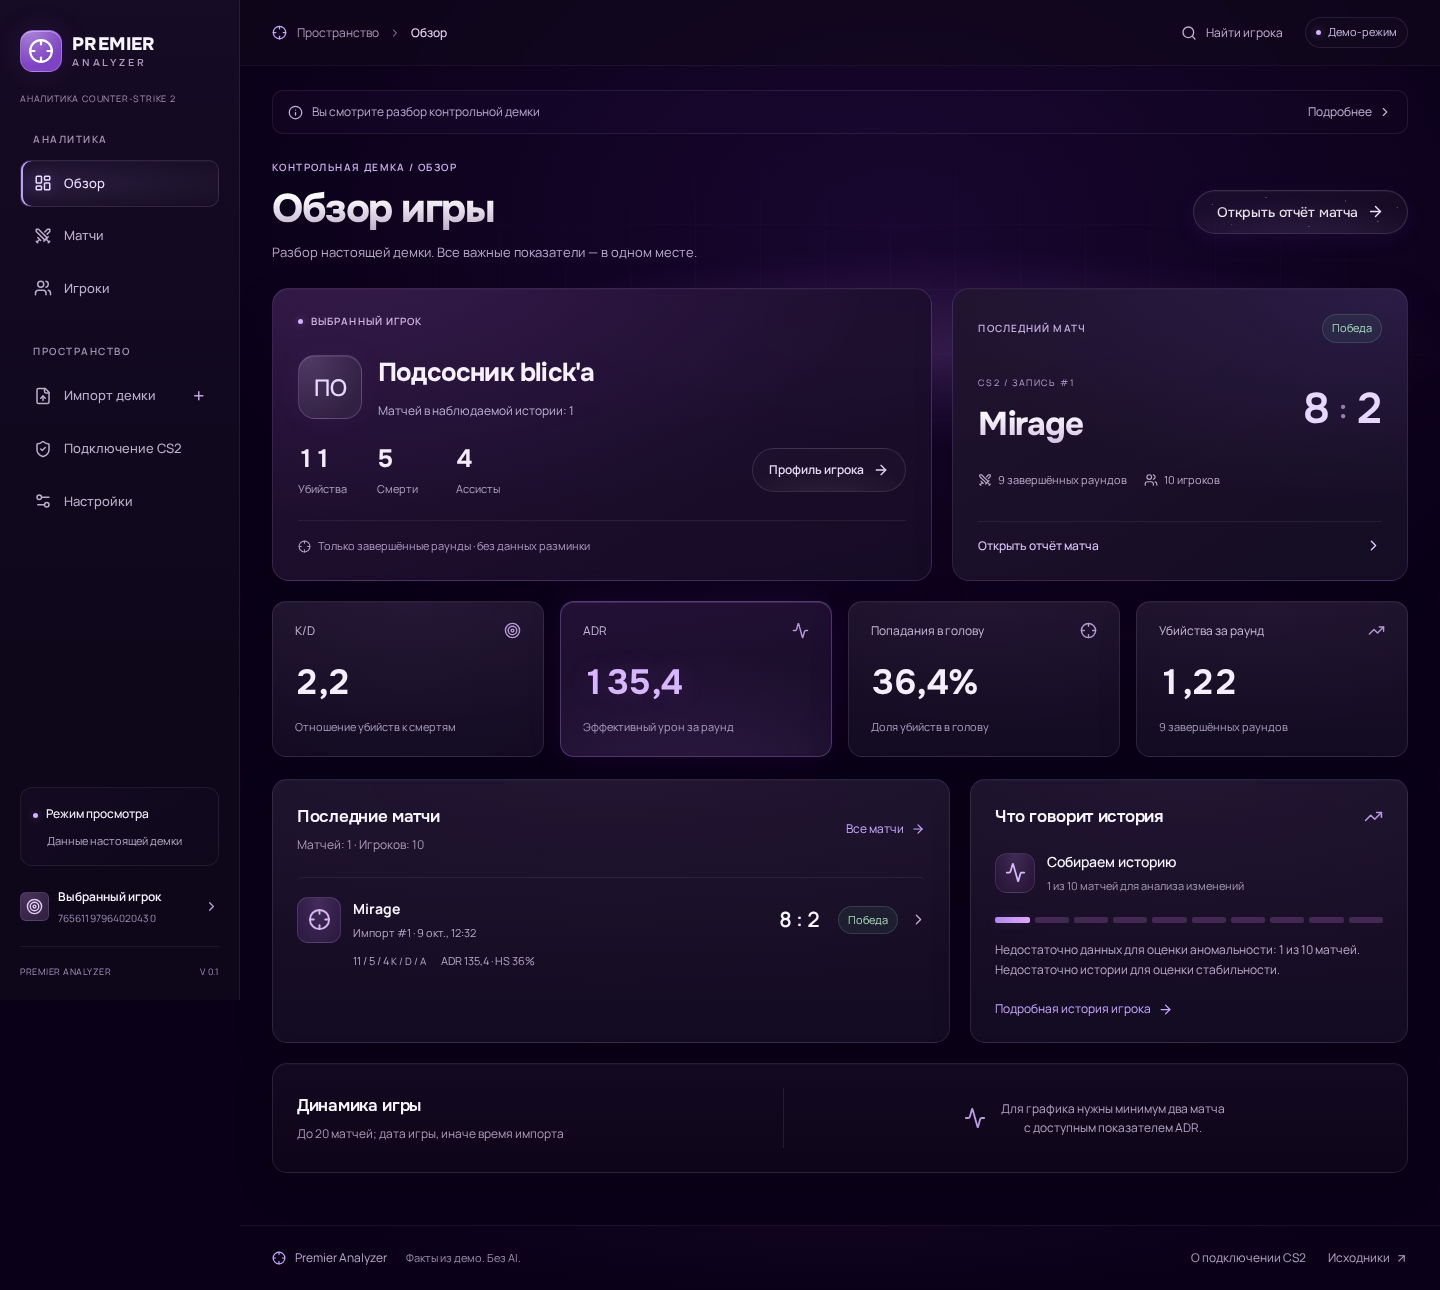
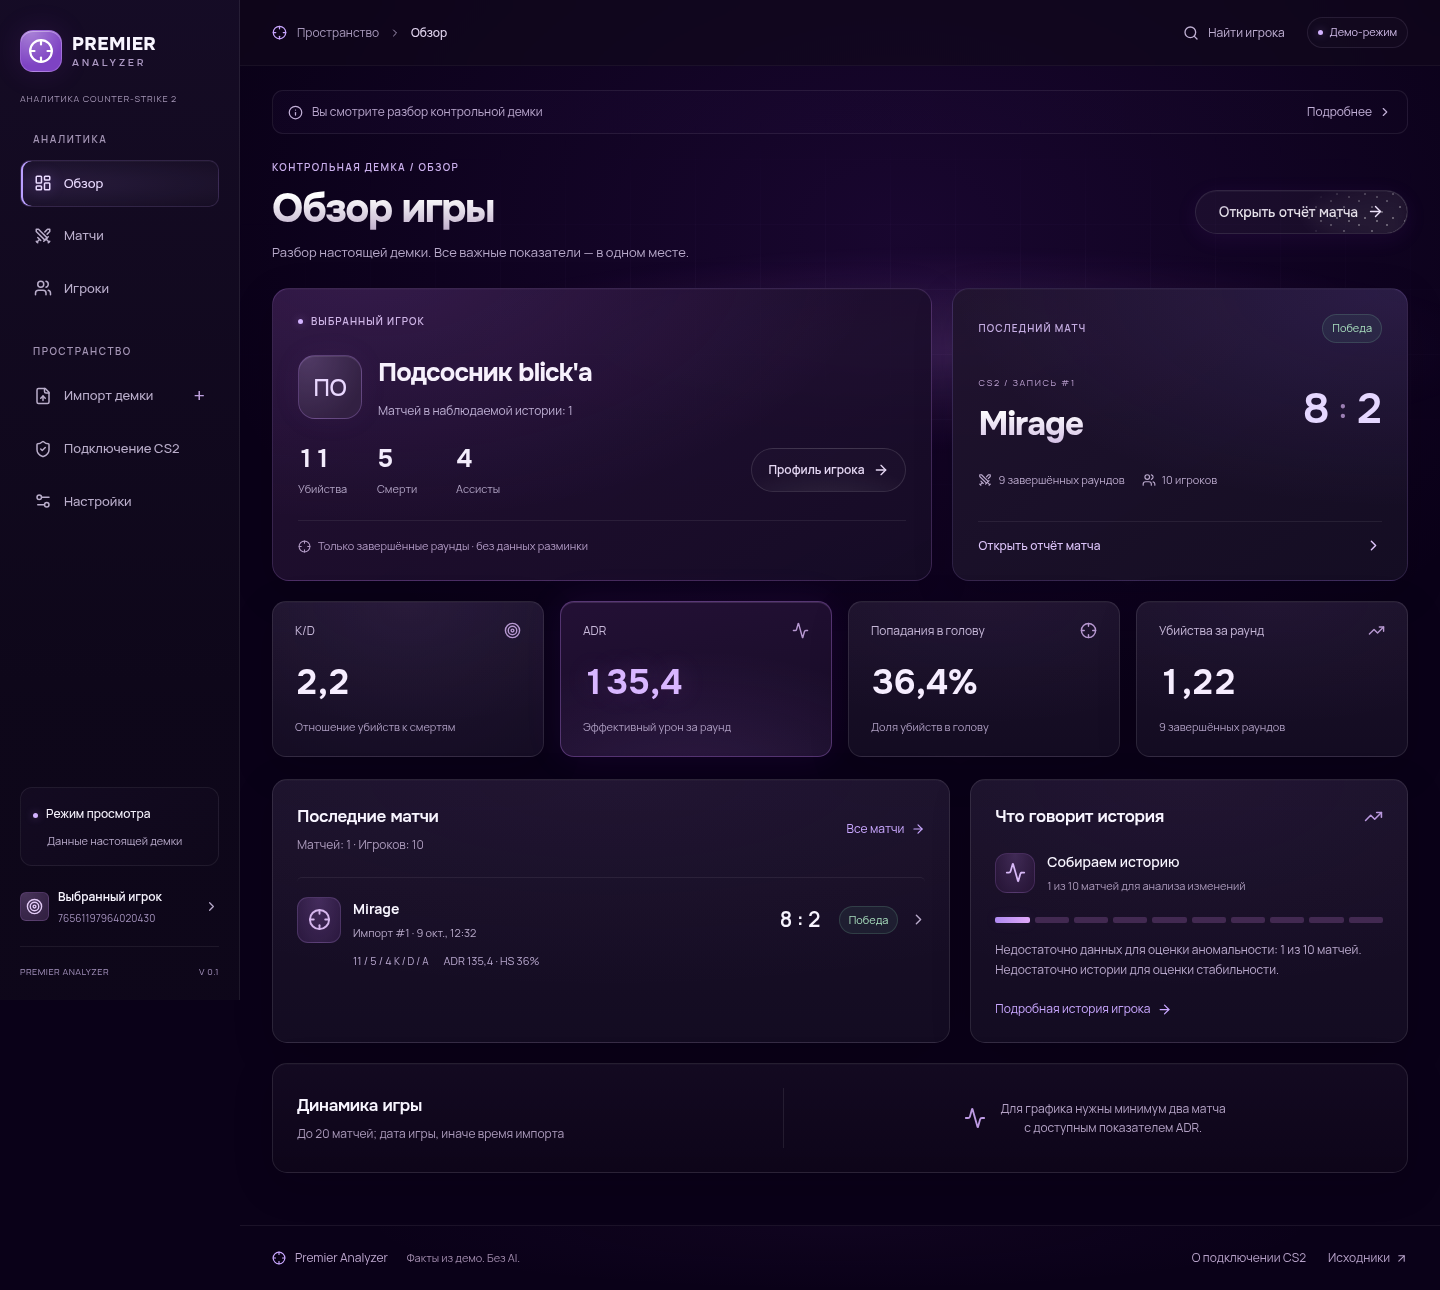
Match Wope's synchronized two-second light motion and add animated preview

diff --git a/frontend/src/shared/ui/glow-action.css b/frontend/src/shared/ui/glow-action.css
@@ -1,0 +1,168 @@
+/* The two-second rotating light follows the public Wope button reference. */
+.button.primary.glow-action {
+  --glow-period: 2s;
+  position: relative;
+  isolation: isolate;
+  overflow: hidden;
+  min-height: 44px;
+  padding: 9px 23px;
+  border: 1px solid #ffffff1a;
+  border-radius: 999px;
+  background: radial-gradient(107.5% 107.5% at 50% 215%, #ffffff3d, #ffffff00), #ffffff0a;
+  box-shadow:
+    inset 0 1px #ffffff0a,
+    0 5px 22px #934bdd16;
+  color: #fff;
+  font-family: 'Onest', 'Manrope', sans-serif;
+  font-size: 14px;
+  font-weight: 500;
+  letter-spacing: -0.15px;
+  line-height: 24px;
+}
+.glow-action-decor,
+.glow-action-stars,
+.glow-action-ring,
+.button.primary.glow-action::after {
+  position: absolute;
+  inset: -1px;
+  border-radius: inherit;
+  pointer-events: none;
+}
+.glow-action-decor {
+  overflow: hidden;
+}
+.glow-action-stars,
+.glow-action-ring {
+  inset: 0;
+}
+.glow-action-aura,
+.glow-action-light {
+  position: absolute;
+  left: 50%;
+  top: 50%;
+  width: 100%;
+  aspect-ratio: 1;
+  background: conic-gradient(#ffffff80 0deg, #ffffff00 60deg, #ffffff00 310deg, #ffffff80 360deg);
+  transform: translate(-50%, -50%);
+  animation: glow-action-turn var(--glow-period) linear infinite;
+}
+.glow-action-aura {
+  filter: blur(8px);
+  opacity: 0.12;
+}
+.glow-action-stars {
+  /* A repeating point mask stays still while light moves underneath it. */
+  -webkit-mask-image:
+    radial-gradient(circle at 2px 4px, #fff 0 0.55px, #ffffff00 1px),
+    radial-gradient(circle at 14px 7px, #fff 0 0.55px, #ffffff00 1px),
+    radial-gradient(circle at 24px 11px, #fff 0 0.55px, #ffffff00 1px),
+    radial-gradient(circle at 9px 17px, #fff 0 0.55px, #ffffff00 1px),
+    radial-gradient(circle at 19px 22px, #fff 0 0.55px, #ffffff00 1px);
+  mask-image:
+    radial-gradient(circle at 2px 4px, #fff 0 0.55px, #ffffff00 1px),
+    radial-gradient(circle at 14px 7px, #fff 0 0.55px, #ffffff00 1px),
+    radial-gradient(circle at 24px 11px, #fff 0 0.55px, #ffffff00 1px),
+    radial-gradient(circle at 9px 17px, #fff 0 0.55px, #ffffff00 1px),
+    radial-gradient(circle at 19px 22px, #fff 0 0.55px, #ffffff00 1px);
+  -webkit-mask-size: 28px 24px;
+  mask-size: 28px 24px;
+  -webkit-mask-repeat: repeat;
+  mask-repeat: repeat;
+}
+.glow-action-ring {
+  padding: 1px;
+  -webkit-mask:
+    linear-gradient(#fff 0 0) content-box,
+    linear-gradient(#fff 0 0);
+  -webkit-mask-composite: xor;
+  mask:
+    linear-gradient(#fff 0 0) content-box,
+    linear-gradient(#fff 0 0);
+  mask-composite: exclude;
+}
+.button.primary.glow-action::after {
+  content: '';
+  background: radial-gradient(85% 120% at 50% 120%, #ffffff3d, #ffffff00);
+  opacity: 0;
+  transition: opacity 1s;
+}
+.glow-action-label {
+  position: relative;
+  z-index: 1;
+  display: inline-flex;
+  align-items: center;
+  justify-content: center;
+  gap: inherit;
+  background: linear-gradient(180deg, #e8dbf3bf, #fff 85%);
+  background-clip: text;
+  -webkit-background-clip: text;
+  color: transparent;
+  -webkit-text-fill-color: transparent;
+}
+.glow-action-label > svg {
+  color: #eee2fb;
+}
+.button.primary.glow-action:not(:disabled):hover,
+.button.primary.glow-action:focus-visible {
+  background-color: #ffffff10;
+  border-color: #e0c2ff52;
+  filter: none;
+  box-shadow:
+    inset 0 1px #ffffff14,
+    0 5px 28px #b578e72b;
+}
+.button.primary.glow-action:not(:disabled):hover::after,
+.button.primary.glow-action:focus-visible::after {
+  opacity: 0.7;
+}
+.button.primary.glow-action:disabled {
+  background-color: #ffffff0a;
+  border-color: #ffffff1a;
+  box-shadow: none;
+  filter: none;
+}
+.glow-action:disabled .glow-action-light,
+.glow-action:disabled .glow-action-aura {
+  animation-play-state: paused;
+}
+.glow-action:disabled .glow-action-decor {
+  opacity: 0.2;
+}
+@keyframes glow-action-turn {
+  from {
+    transform: translate(-50%, -50%) rotate(0deg);
+  }
+  to {
+    transform: translate(-50%, -50%) rotate(360deg);
+  }
+}
+@media (prefers-reduced-motion: reduce) {
+  .glow-action-light,
+  .glow-action-aura {
+    animation: none;
+    transform: translate(-50%, -50%) rotate(-35deg);
+  }
+  .button.primary.glow-action::after {
+    transition: none;
+  }
+}
+@media (forced-colors: active) {
+  .glow-action-decor,
+  .button.primary.glow-action::after {
+    display: none;
+  }
+  .button.primary.glow-action {
+    color: ButtonText;
+    background: ButtonFace;
+    border-color: ButtonText;
+    box-shadow: none;
+  }
+  .glow-action-label {
+    background: none;
+    color: ButtonText;
+    -webkit-text-fill-color: ButtonText;
+  }
+  .glow-action-label > svg {
+    color: ButtonText;
+  }
+}

diff --git a/frontend/src/app/styles/dashboard.css b/frontend/src/app/styles/dashboard.css
@@ -1292,131 +1292,6 @@ nav a:hover {
   background-color: #a977d216;
   filter: none;
 }
-@property --cta-angle {
-  syntax: '<angle>';
-  inherits: false;
-  initial-value: 35deg;
-}
-.button.glow-action {
-  position: relative;
-  isolation: isolate;
-  overflow: hidden;
-  min-height: 44px;
-  padding: 9px 23px;
-  border-color: #ffffff24;
-  background: radial-gradient(110% 110% at 50% 210%, #ffffff38, #ffffff00), #ffffff09;
-  box-shadow:
-    inset 0 1px #ffffff0a,
-    0 5px 22px #934bdd16;
-  font-family: 'Onest', 'Manrope', sans-serif;
-  font-size: 14px;
-  font-weight: 500;
-  letter-spacing: -0.15px;
-  line-height: 24px;
-}
-.button.glow-action::before,
-.button.glow-action::after {
-  content: '';
-  position: absolute;
-  inset: -1px;
-  border-radius: inherit;
-  pointer-events: none;
-}
-.button.glow-action::before {
-  padding: 1px;
-  background: conic-gradient(
-    from var(--cta-angle),
-    #ffffff00 0deg,
-    #d8b9ff35 38deg,
-    #f5ebffc9 75deg,
-    #ffffff00 125deg,
-    #ffffff00 235deg,
-    #d5a8ff70 280deg,
-    #ffffff00 330deg
-  );
-  -webkit-mask:
-    linear-gradient(#fff 0 0) content-box,
-    linear-gradient(#fff 0 0);
-  -webkit-mask-composite: xor;
-  mask:
-    linear-gradient(#fff 0 0) content-box,
-    linear-gradient(#fff 0 0);
-  mask-composite: exclude;
-  animation: cta-orbit 4s linear infinite;
-  opacity: 0.85;
-}
-.button.glow-action::after {
-  z-index: -1;
-  background:
-    radial-gradient(circle at 9% 33%, #efdcff90 0 0.55px, transparent 0.95px),
-    radial-gradient(circle at 18% 78%, #ffffff60 0 0.45px, transparent 0.85px),
-    radial-gradient(circle at 34% 17%, #ffffff70 0 0.55px, transparent 0.95px),
-    radial-gradient(circle at 54% 83%, #e2c7ff80 0 0.55px, transparent 0.95px),
-    radial-gradient(circle at 71% 25%, #ffffff70 0 0.45px, transparent 0.85px),
-    radial-gradient(circle at 86% 71%, #f4e5ff80 0 0.55px, transparent 0.95px),
-    radial-gradient(circle at 95% 40%, #ffffff70 0 0.45px, transparent 0.85px),
-    radial-gradient(ellipse 85% 140% at 50% 135%, #c5a0f53d, #ffffff00 90%);
-  animation: cta-shimmer 4s ease-in-out infinite;
-  opacity: 0.55;
-}
-.glow-action-label {
-  display: inline-flex;
-  align-items: center;
-  justify-content: center;
-  gap: inherit;
-  position: relative;
-  background: linear-gradient(180deg, #e8dbf3bf, #fff 85%);
-  background-clip: text;
-  -webkit-background-clip: text;
-  color: transparent;
-  -webkit-text-fill-color: transparent;
-}
-.glow-action-label > svg {
-  color: #eee2fb;
-}
-.button.glow-action:not(:disabled):hover,
-.button.glow-action:focus-visible {
-  background-color: #ffffff10;
-  border-color: #e0c2ff52;
-  box-shadow:
-    inset 0 1px #ffffff14,
-    0 5px 28px #b578e72b;
-}
-.button.glow-action:disabled::before,
-.button.glow-action:disabled::after {
-  animation: none;
-  opacity: 0.2;
-}
-@keyframes cta-orbit {
-  to {
-    --cta-angle: 395deg;
-  }
-}
-@keyframes cta-shimmer {
-  50% {
-    opacity: 0.9;
-  }
-}
-@media (prefers-reduced-motion: reduce) {
-  .button.glow-action::before,
-  .button.glow-action::after {
-    animation: none;
-  }
-}
-@media (forced-colors: active) {
-  .button.glow-action::before,
-  .button.glow-action::after {
-    display: none;
-  }
-  .glow-action-label {
-    background: none;
-    color: ButtonText;
-    -webkit-text-fill-color: ButtonText;
-  }
-  .glow-action-label > svg {
-    color: ButtonText;
-  }
-}
 .overview-grid {
   position: relative;
 }

diff --git a/frontend/src/shared/ui/GlowAction.tsx b/frontend/src/shared/ui/GlowAction.tsx
@@ -1,9 +1,25 @@
 import type { ComponentProps } from 'react'
 import { Link } from 'react-router-dom'
+import './glow-action.css'
+
+function GlowDecoration() {
+  return (
+    <span className="glow-action-decor" aria-hidden="true">
+      <span className="glow-action-aura" />
+      <span className="glow-action-stars">
+        <span className="glow-action-light" />
+      </span>
+      <span className="glow-action-ring">
+        <span className="glow-action-light" />
+      </span>
+    </span>
+  )
+}
 
 export function GlowLink({ children, className = '', ...props }: ComponentProps<typeof Link>) {
   return (
     <Link {...props} className={`button primary glow-action ${className}`.trim()}>
+      <GlowDecoration />
       <span className="glow-action-label">{children}</span>
     </Link>
   )
@@ -17,6 +33,7 @@ export function GlowButton({
 }: ComponentProps<'button'>) {
   return (
     <button {...props} type={type} className={`button primary glow-action ${className}`.trim()}>
+      <GlowDecoration />
       <span className="glow-action-label">{children}</span>
     </button>
   )

diff --git a/docs/DESIGN.md b/docs/DESIGN.md
@@ -8,7 +8,7 @@
 
 Подсветка карточек следует за мышью через CSS-переменные. Обработчик в `shared/lib/pointer-glow.ts` не вызывает React-перерисовку на каждом движении и пропускает касания. При `prefers-reduced-motion` эффект отключён, а в режиме принудительных цветов градиентные заголовки остаются читаемыми.
 
-Основная кнопка адаптирована по «Unlimited trial for 14 days» на Wope: стеклянная поверхность, тонкая рамка с движущимся бликом, небольшие мерцающие точки и градиентная надпись. Общие `GlowLink` и `GlowButton` экспортируются из `shared/ui`; страница использует ссылку для перехода, а feature синхронизации — настоящую кнопку с `disabled`. Декор реализован CSS-псевдоэлементами без перехвата кликов. Анимации останавливаются при `prefers-reduced-motion` и в состоянии `disabled`, в forced colors декор скрывается и текст остаётся читаемым.
+Основная кнопка адаптирована по «Unlimited trial for 14 days» на Wope: стеклянная поверхность, тонкая рамка с движущимся бликом, небольшие мерцающие точки и градиентная надпись. Общие `GlowLink` и `GlowButton` экспортируются из `shared/ui`; страница использует ссылку для перехода, а feature синхронизации — настоящую кнопку с `disabled`. Анимация вынесена в `shared/ui/glow-action.css`. Три декоративных слоя синхронно вращают световой конус с периодом 2 секунды и линейной скоростью, как публичные `borderTurn` keyframes Wope. Один слой ограничен рамкой, другой — неподвижной повторяющейся маской точек, третий размыт на 8 px с opacity 0.12. Точки поэтому загораются по очереди при прохождении света. Hover плавно добавляет внутреннее свечение за 1 секунду. Маска точек создана CSS-градиентами; внешние SVG и JavaScript сайта не нужны. Декоративные слои имеют `aria-hidden` и не перехватывают клики. Анимации останавливаются при `prefers-reduced-motion` и в состоянии `disabled`, в forced colors декор скрывается и текст остаётся читаемым.
 
 Публичный режим просмотра обозначен в статусе и компактном раскрываемом уведомлении. Авторизация Steam и импорт своих файлов по-прежнему требуют серверной версии. Отсутствующие значения, неизвестная дата игры и недостаточная история не заменяются вымышленными показателями. Пустой график показан компактным пояснением.
 

diff --git a/docs/VALIDATION.md b/docs/VALIDATION.md
@@ -98,3 +98,7 @@ Frontend lint/format/typecheck and both native and Pages builds pass. All 11 fro
 ## Glowing primary action
 
 Добавлены общие `GlowLink`/`GlowButton` в shared/ui и оформление основной кнопки по Wope «Unlimited trial for 14 days». Прошли FSD/ESLint, Prettier, 11 frontend tests, сборки native/Pages и 5 native Playwright tests, включая настоящую контрольную демку и синхронизацию с контролируемыми Steam/CS2-ответами. Pages smoke прошёл на семи ширинах 320–1920 px. Отдельная браузерная проверка подтвердила движение блика (кадры при разных углах отличаются), hover, видимый focus и переход по Enter, остановку анимаций при reduced motion и читаемость при forced colors. JavaScript ошибок нет. Скриншоты дашборда обновлены; крупный план кнопки — `screenshots/dashboard-cta.png`.
+
+## Two-second light animation
+
+Публичный CSS Wope проверен в Chromium: общий цикл света/рамки/частиц — 2s linear, размытие 8 px, opacity 0.12, hover transition 1s. Эта механика адаптирована в shared/ui/glow-action.css; статическое мерцание всех точек заменено проходящим светом под неподвижной маской. Прошли FSD/ESLint, Prettier, 11 frontend tests, native/Pages builds и Pages smoke на семи ширинах 320–1920 px. В Chromium отдельно проверены три синхронных 2s linear слоя, изменение видимых кадров, hover, focus/Enter, остановка при reduced motion и disabled, forced colors и переход в матч без JavaScript ошибок. GIF снят с реальной статической сборки: 40 кадров × 50 ms, один полный цикл; игровая статистика и серверная логика не менялись. Native parser/E2E в этой проверке не повторялись; предыдущие результаты сохранены выше.
